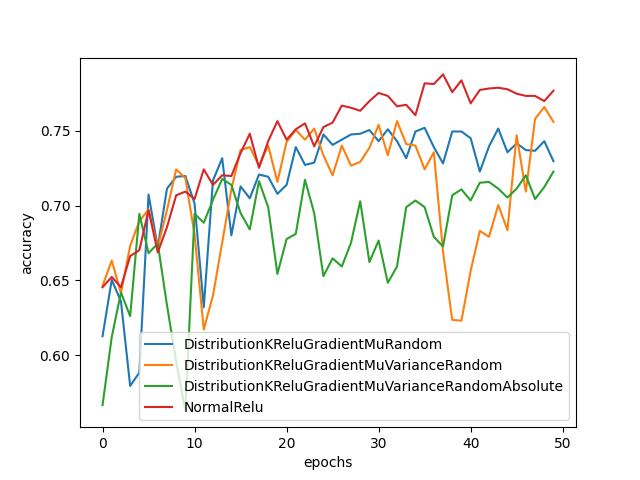
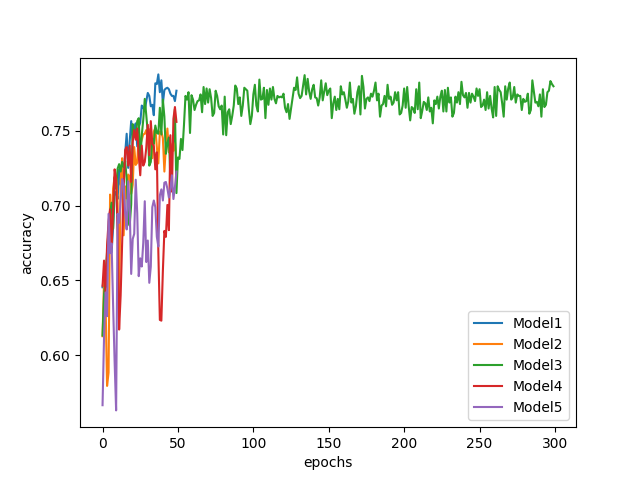
compared dog cat

diff --git a/DogCatTrain/Comparison/compare_histories.py b/DogCatTrain/Comparison/compare_histories.py
@@ -4,15 +4,22 @@ import matplotlib.pyplot as plt
 import numpy as np
 
 histories = []
+models = [
+  "NormalRelu",
+  "DistributionKReluGradientMuRandom",
+  "DistributionKReluGradientMuRandomIncreased",
+  "DistributionKReluGradientMuVarianceRandom",
+  "DistributionKReluGradientMuVarianceRandomAbsolute"
+]
 
 for history_type in ["accuracy", "loss"]:
   plt.figure()
-  for directory in os.listdir("../"):
+  for index, directory in enumerate(models):
     path = os.path.join("../", directory, "model", "model_history.pkl")
     if os.path.exists(path) == True:
       with open(path, "rb") as f:
         history = pickle.load(f)
-        plt.plot(np.arange(len(history[history_type])), history[history_type], label=directory)
+        plt.plot(np.arange(len(history[history_type])), history[history_type], label="Model{}".format(index + 1))
 
   plt.xlabel("epochs")
   plt.ylabel(history_type)
